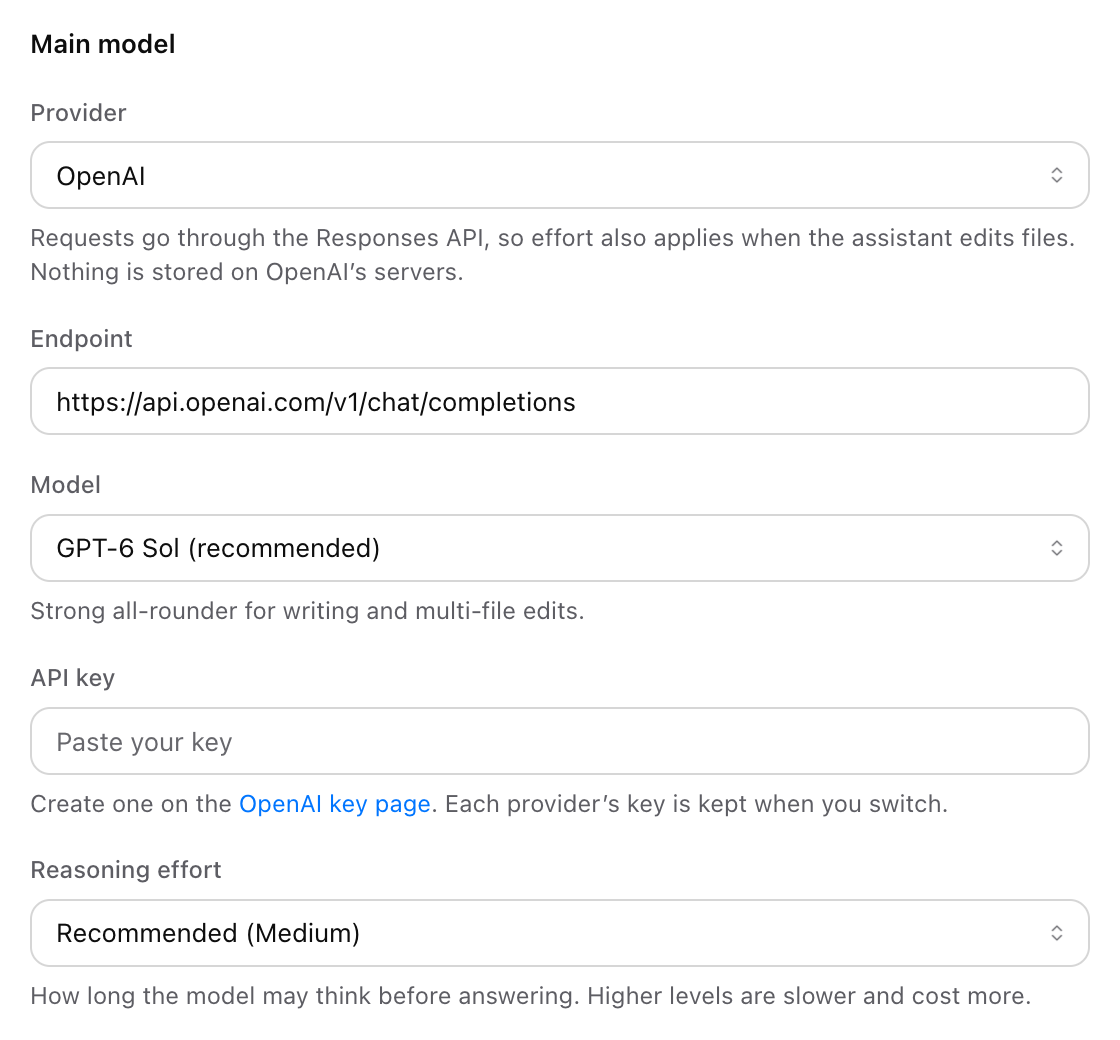
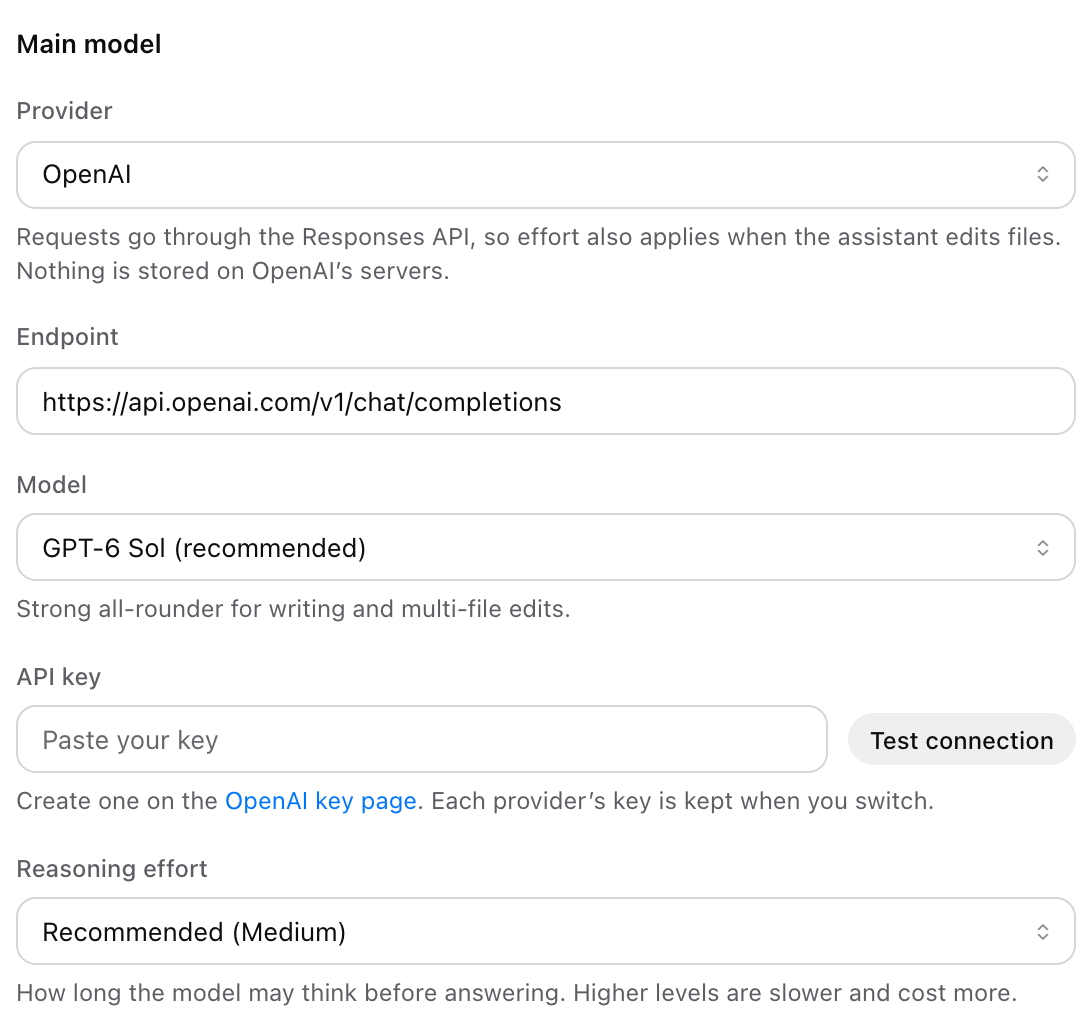
Test connection: centred beside the key, plainer words for a server with no preset; handbook
The handbook's paragraph on providers gains Test connection and what it does and does not
prove, the paragraph on busy providers a dropped connection, and the Models picture is
retaken with the button.

diff --git a/apps/backend/src/services/modelCheck.js b/apps/backend/src/services/modelCheck.js
@@ -62,7 +62,6 @@ export async function testConnection({ provider: id, endpoint, apiKey }) {
   const api = p?.api || (/\/messages$/i.test(url) ? 'anthropic' : /\/responses$/i.test(url) ? 'responses' : 'chat');
   const key = p?.local ? '' : config.apiKey;
   const host = parsed.host;
-  const name = p?.name || host;
   if (!key && !p?.local && !/^http:/i.test(url)) return { ok: false, kind: 'key', message: 'Paste the API key first.' };
   if (badKey(key)) return { ok: false, kind: 'header', message: BAD_KEY };
 
@@ -99,7 +98,7 @@ export async function testConnection({ provider: id, endpoint, apiKey }) {
   if (ids) {
     const listed = ids.length ? `offers ${plural(ids.length)}` : 'lists no models';
     // a list that needs no key says nothing about the key, unless it was checked apart
-    const said = !key ? `Connected to ${host}, which ${listed}.` : keyCheck && !checked?.ok ? `Connected to ${host}, which ${listed}. Spectrum couldn’t check the key (HTTP ${checked.status}).` : `Connected to ${host}. It accepted the key, and ${name} ${listed}.`;
+    const said = !key ? `Connected to ${host}, which ${listed}.` : keyCheck && !checked?.ok ? `Connected to ${host}, which ${listed}. Spectrum couldn’t check the key (HTTP ${checked.status}).` : `Connected to ${host}. It accepted the key${p ? `, and ${p.name} ${listed}` : ` and ${listed}`}.`;
     return { ok: true, kind: 'connected', message: said, models: ids };
   }
   if ([401, 403].includes(res.status)) return refused(res.status);

diff --git a/apps/frontend/src/app/SettingsSheet.tsx b/apps/frontend/src/app/SettingsSheet.tsx
@@ -471,7 +471,7 @@ export default function SettingsSheet({ onClose, projectId, section: start = 'ap
     return (
       <div className="field">
         <label htmlFor={`settings-${key}`}>{label}</label>
-        {opts.action ? <div className="row">{input}{opts.action}</div> : input}
+        {opts.action ? <div className="row" style={{ alignItems: 'center' }}>{input}{opts.action}</div> : input}
         {opts.list?.length ? <datalist id={`settings-${key}-list`}>{opts.list.map((id) => <option key={id} value={id} />)}</datalist> : null}
         {opts.hint && <div className="field-hint">{opts.hint}</div>}
         {opts.after}
